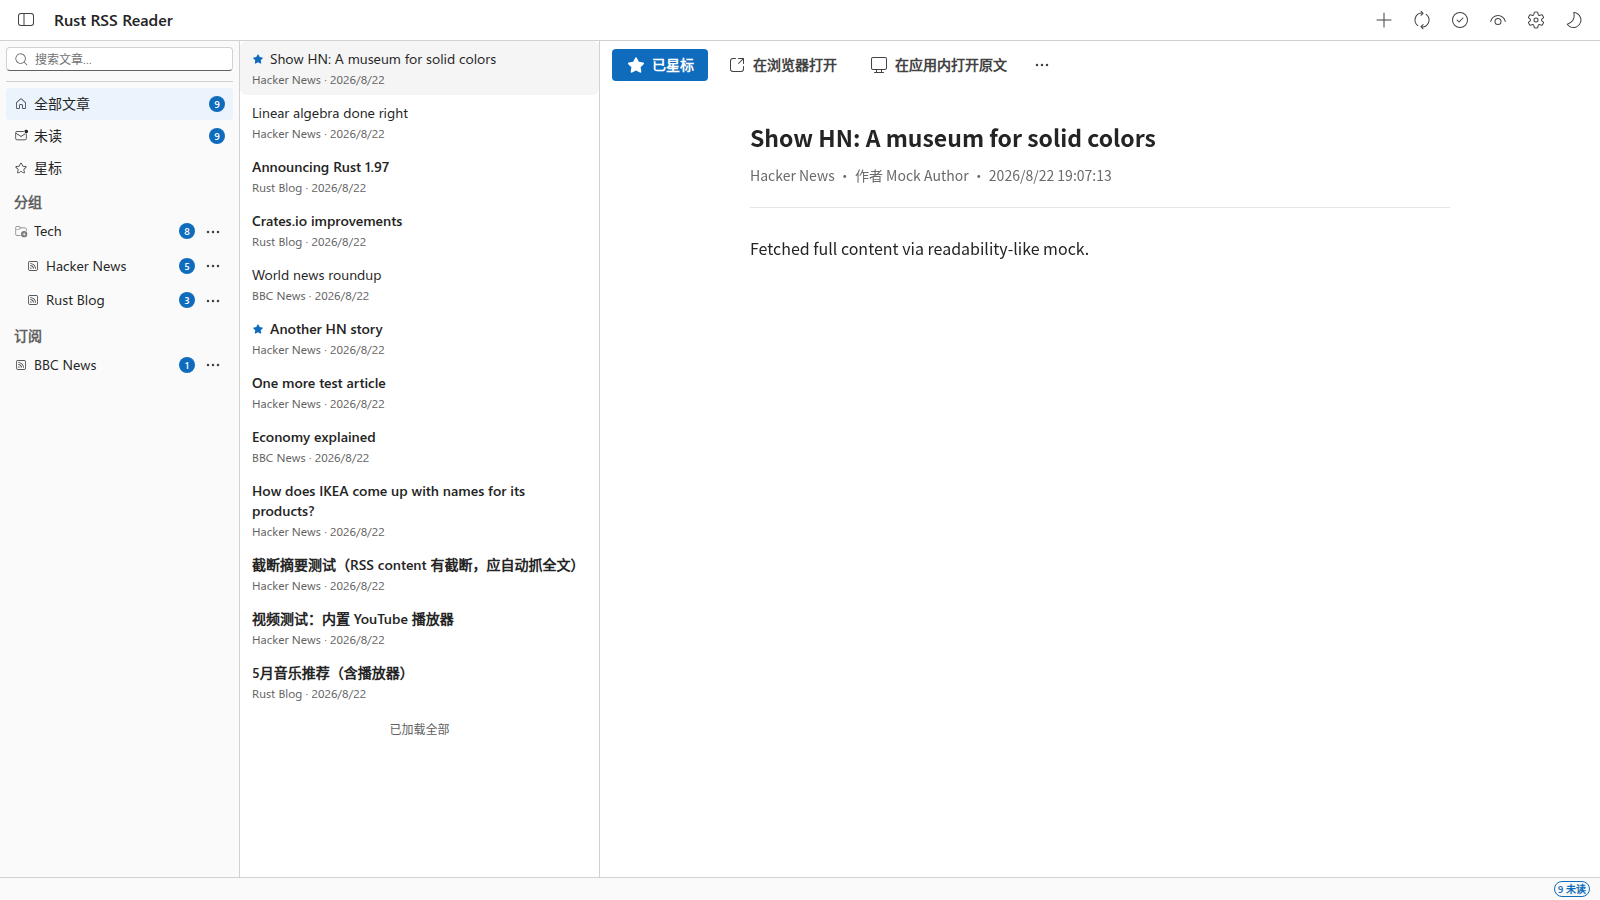
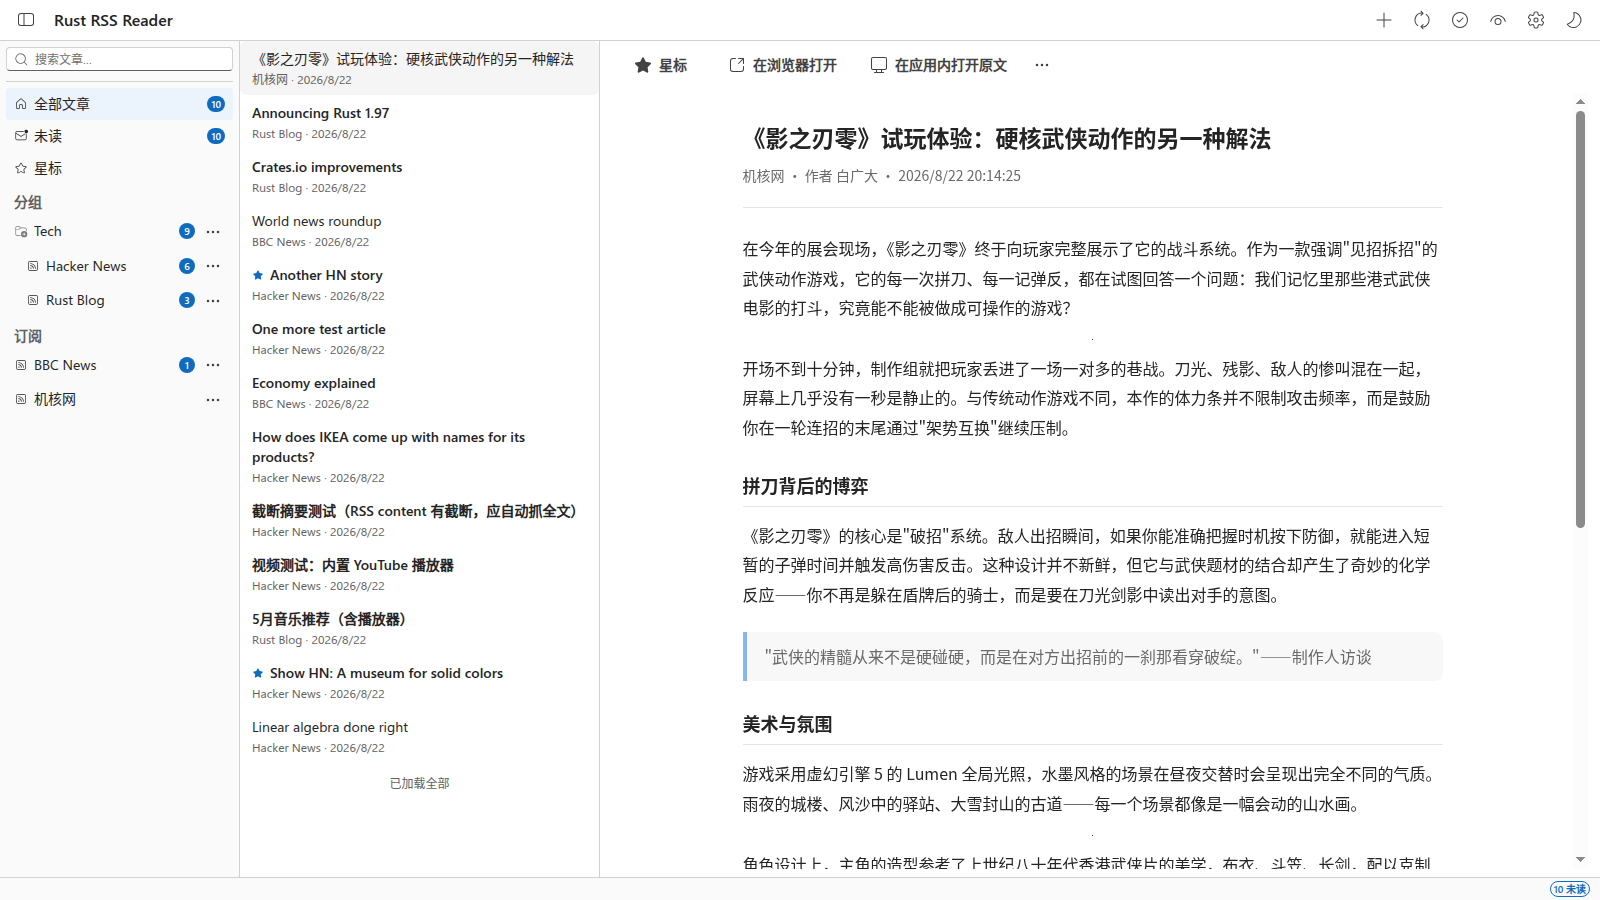
docs: reader screenshot with gcores-style long article (1600x900)

diff --git a/apps/desktop/ui/src/mock/backend.ts b/apps/desktop/ui/src/mock/backend.ts
@@ -62,6 +62,7 @@ let feeds: MockFeed[] = [
   { id: 1, folder_id: 1, title: "Hacker News", url: "https://hnrss.org/frontpage", site_url: "https://news.ycombinator.com", description: null, favicon_url: null, last_updated: null, error: null, refresh_interval: null, use_proxy: false, default_original: false },
   { id: 2, folder_id: 1, title: "Rust Blog", url: "https://blog.rust-lang.org/feed.xml", site_url: "https://blog.rust-lang.org", description: null, favicon_url: null, last_updated: null, error: null, refresh_interval: null, use_proxy: false, default_original: false },
   { id: 3, folder_id: null, title: "BBC News", url: "https://feeds.bbci.co.uk/news/rss.xml", site_url: "https://www.bbc.com/news", description: null, favicon_url: null, last_updated: null, error: null, refresh_interval: null, use_proxy: false, default_original: false },
+  { id: 4, folder_id: null, title: "机核网", url: "https://www.gcores.com/rss", site_url: "https://www.gcores.com", description: null, favicon_url: null, last_updated: null, error: null, refresh_interval: null, use_proxy: false, default_original: false },
 ];
 let folders = [{ id: 1, name: "Tech", position: 0 }];
 let articles: MockArticle[] = [
@@ -81,6 +82,14 @@ let articles: MockArticle[] = [
     title: "5月音乐推荐（含播放器）",
     url: "https://example.com/media",
     content: `<p>文章正文，含防盗链图片和音乐播放器。</p><img src="https://cdn.sspai.com/2026/08/14/example.jpg" data-original="https://cdn.sspai.com/2026/08/14/example-orig.jpg"/><p>下面是一个网易云播放器 iframe：</p><iframe src="https://music.163.com/outchain/player?type=2&id=12345&auto=0" width="330" height="86"></iframe><p>以及一个直链音频：</p><audio src="https://cdn.example.com/song.mp3" controls></audio>`,
+  }),
+  mkArticle({
+    feed_id: 4,
+    title: "《影之刃零》试玩体验：硬核武侠动作的另一种解法",
+    url: "https://example.com/gcores/1",
+    author: "白广大",
+    published_at: new Date().toISOString(),
+    content: `<p>在今年的展会现场，《影之刃零》终于向玩家完整展示了它的战斗系统。作为一款强调"见招拆招"的武侠动作游戏，它的每一次拼刀、每一记弹反，都在试图回答一个问题：我们记忆里那些港式武侠电影的打斗，究竟能不能被做成可操作的游戏？</p><img src="https://image.gcores.com/demo-01-1600-900.jpg"/><p>开场不到十分钟，制作组就把玩家丢进了一场一对多的巷战。刀光、残影、敌人的惨叫混在一起，屏幕上几乎没有一秒是静止的。与传统动作游戏不同，本作的体力条并不限制攻击频率，而是鼓励你在一轮连招的末尾通过"架势互换"继续压制。</p><h2 id="h2-1">拼刀背后的博弈</h2><p>《影之刃零》的核心是"破招"系统。敌人出招瞬间，如果你能准确把握时机按下防御，就能进入短暂的子弹时间并触发高伤害反击。这种设计并不新鲜，但它与武侠题材的结合却产生了奇妙的化学反应——你不再是躲在盾牌后的骑士，而是要在刀光剑影中读出对手的意图。</p><blockquote>"武侠的精髓从来不是硬碰硬，而是在对方出招前的一刹那看穿破绽。"——制作人访谈</blockquote><h2 id="h2-2">美术与氛围</h2><p>游戏采用虚幻引擎 5 的 Lumen 全局光照，水墨风格的场景在昼夜交替时会呈现出完全不同的气质。雨夜的城楼、风沙中的驿站、大雪封山的古道——每一个场景都像是一幅会动的山水画。</p><img src="https://image.gcores.com/demo-02-1600-900.jpg"/><p>角色设计上，主角的造型参考了上世纪八十年代香港武侠片的美学，布衣、斗笠、长剑，配以克制的色彩，反而比花哨的"时装"更有辨识度。</p><h2 id="h2-3">目前的短板</h2><p>当然，试玩版本也存在一些遗憾：</p><ul><li>敌人的 AI 在低难度下略显迟钝，精英怪的读招行为还有优化空间</li><li>部分场景的加载时间偏长，读档后的演出衔接有些生硬</li><li>地图指引不够明确，容易在开阔区域迷失方向</li></ul><p>但这些都属于打磨阶段常见的问题。真正让人期待的是，制作组已经证明了自己有能力把"武侠"这个被反复消费的题材，做出属于自己的节奏。</p><h2 id="h2-4">结语</h2><p>如果你喜欢《只狼》式的战斗博弈，或者只是单纯怀念香港动作片里的刀光剑影，《影之刃零》都值得放入你的愿望单。它不完美，但它确实在认真地做一件难做的事——让武侠游戏重新变得"见招拆招"。</p>`,
   }),
 ];
 let settings = new Map<string, string>([["theme", "light"]]);
